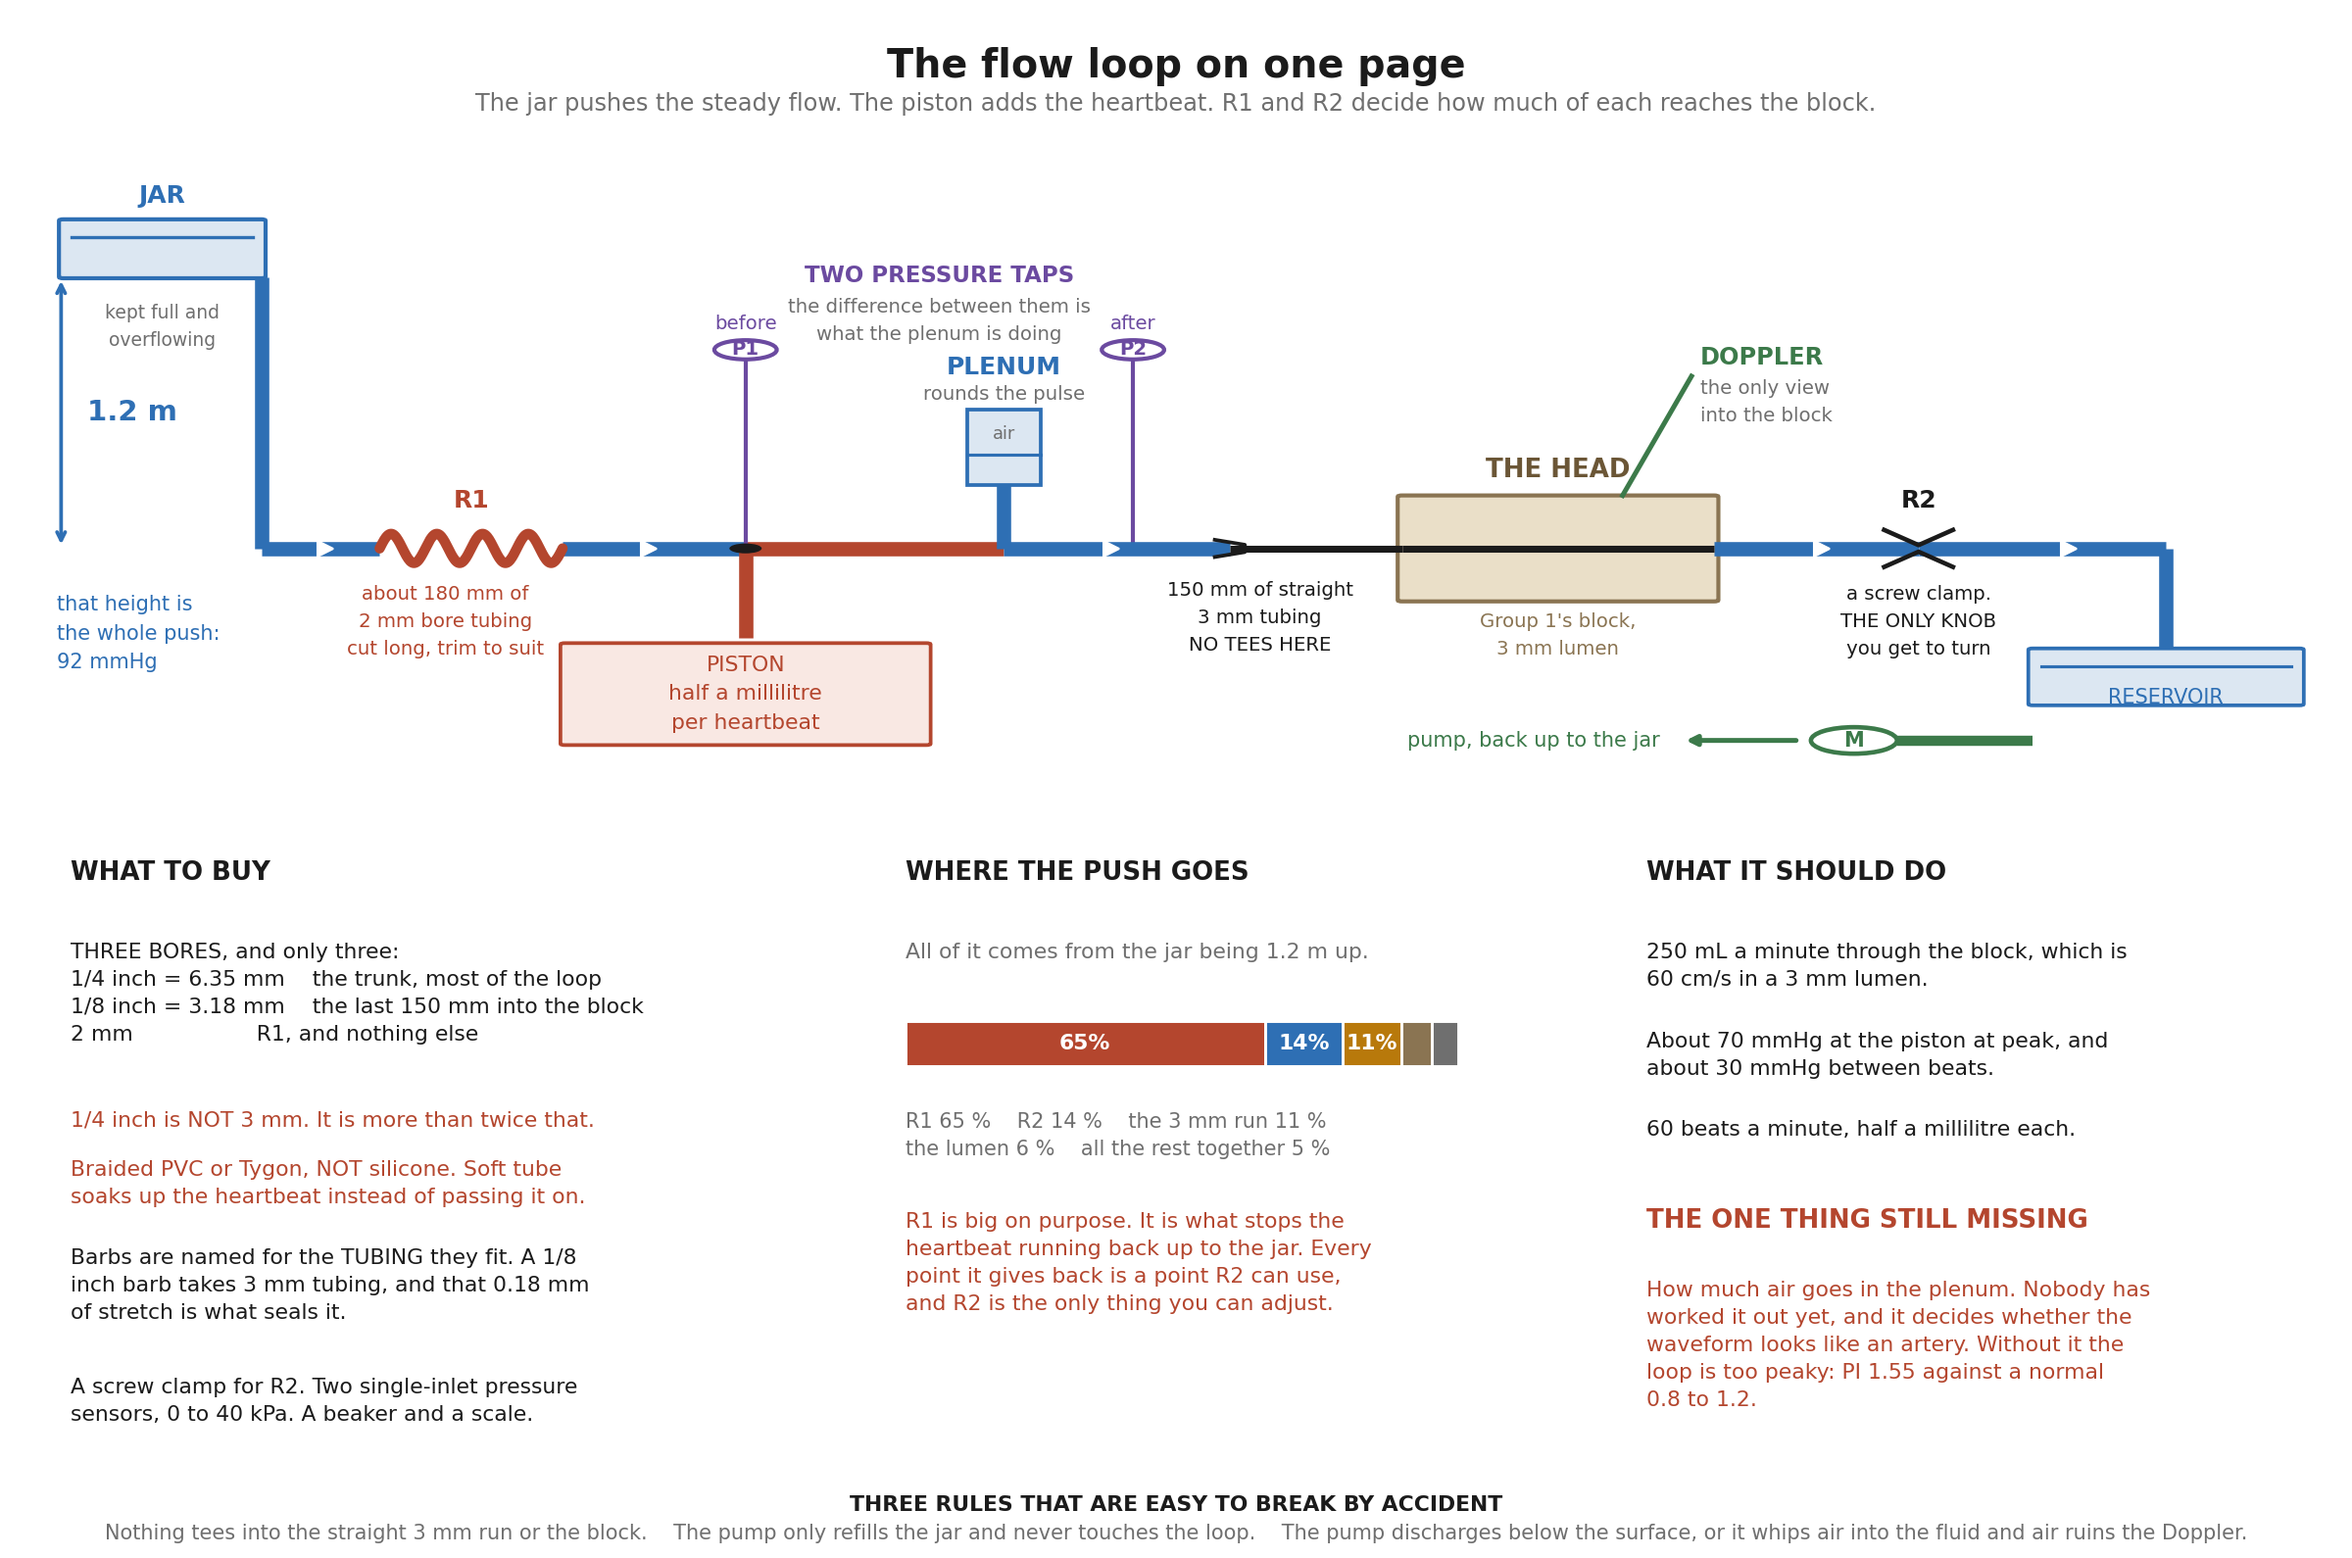
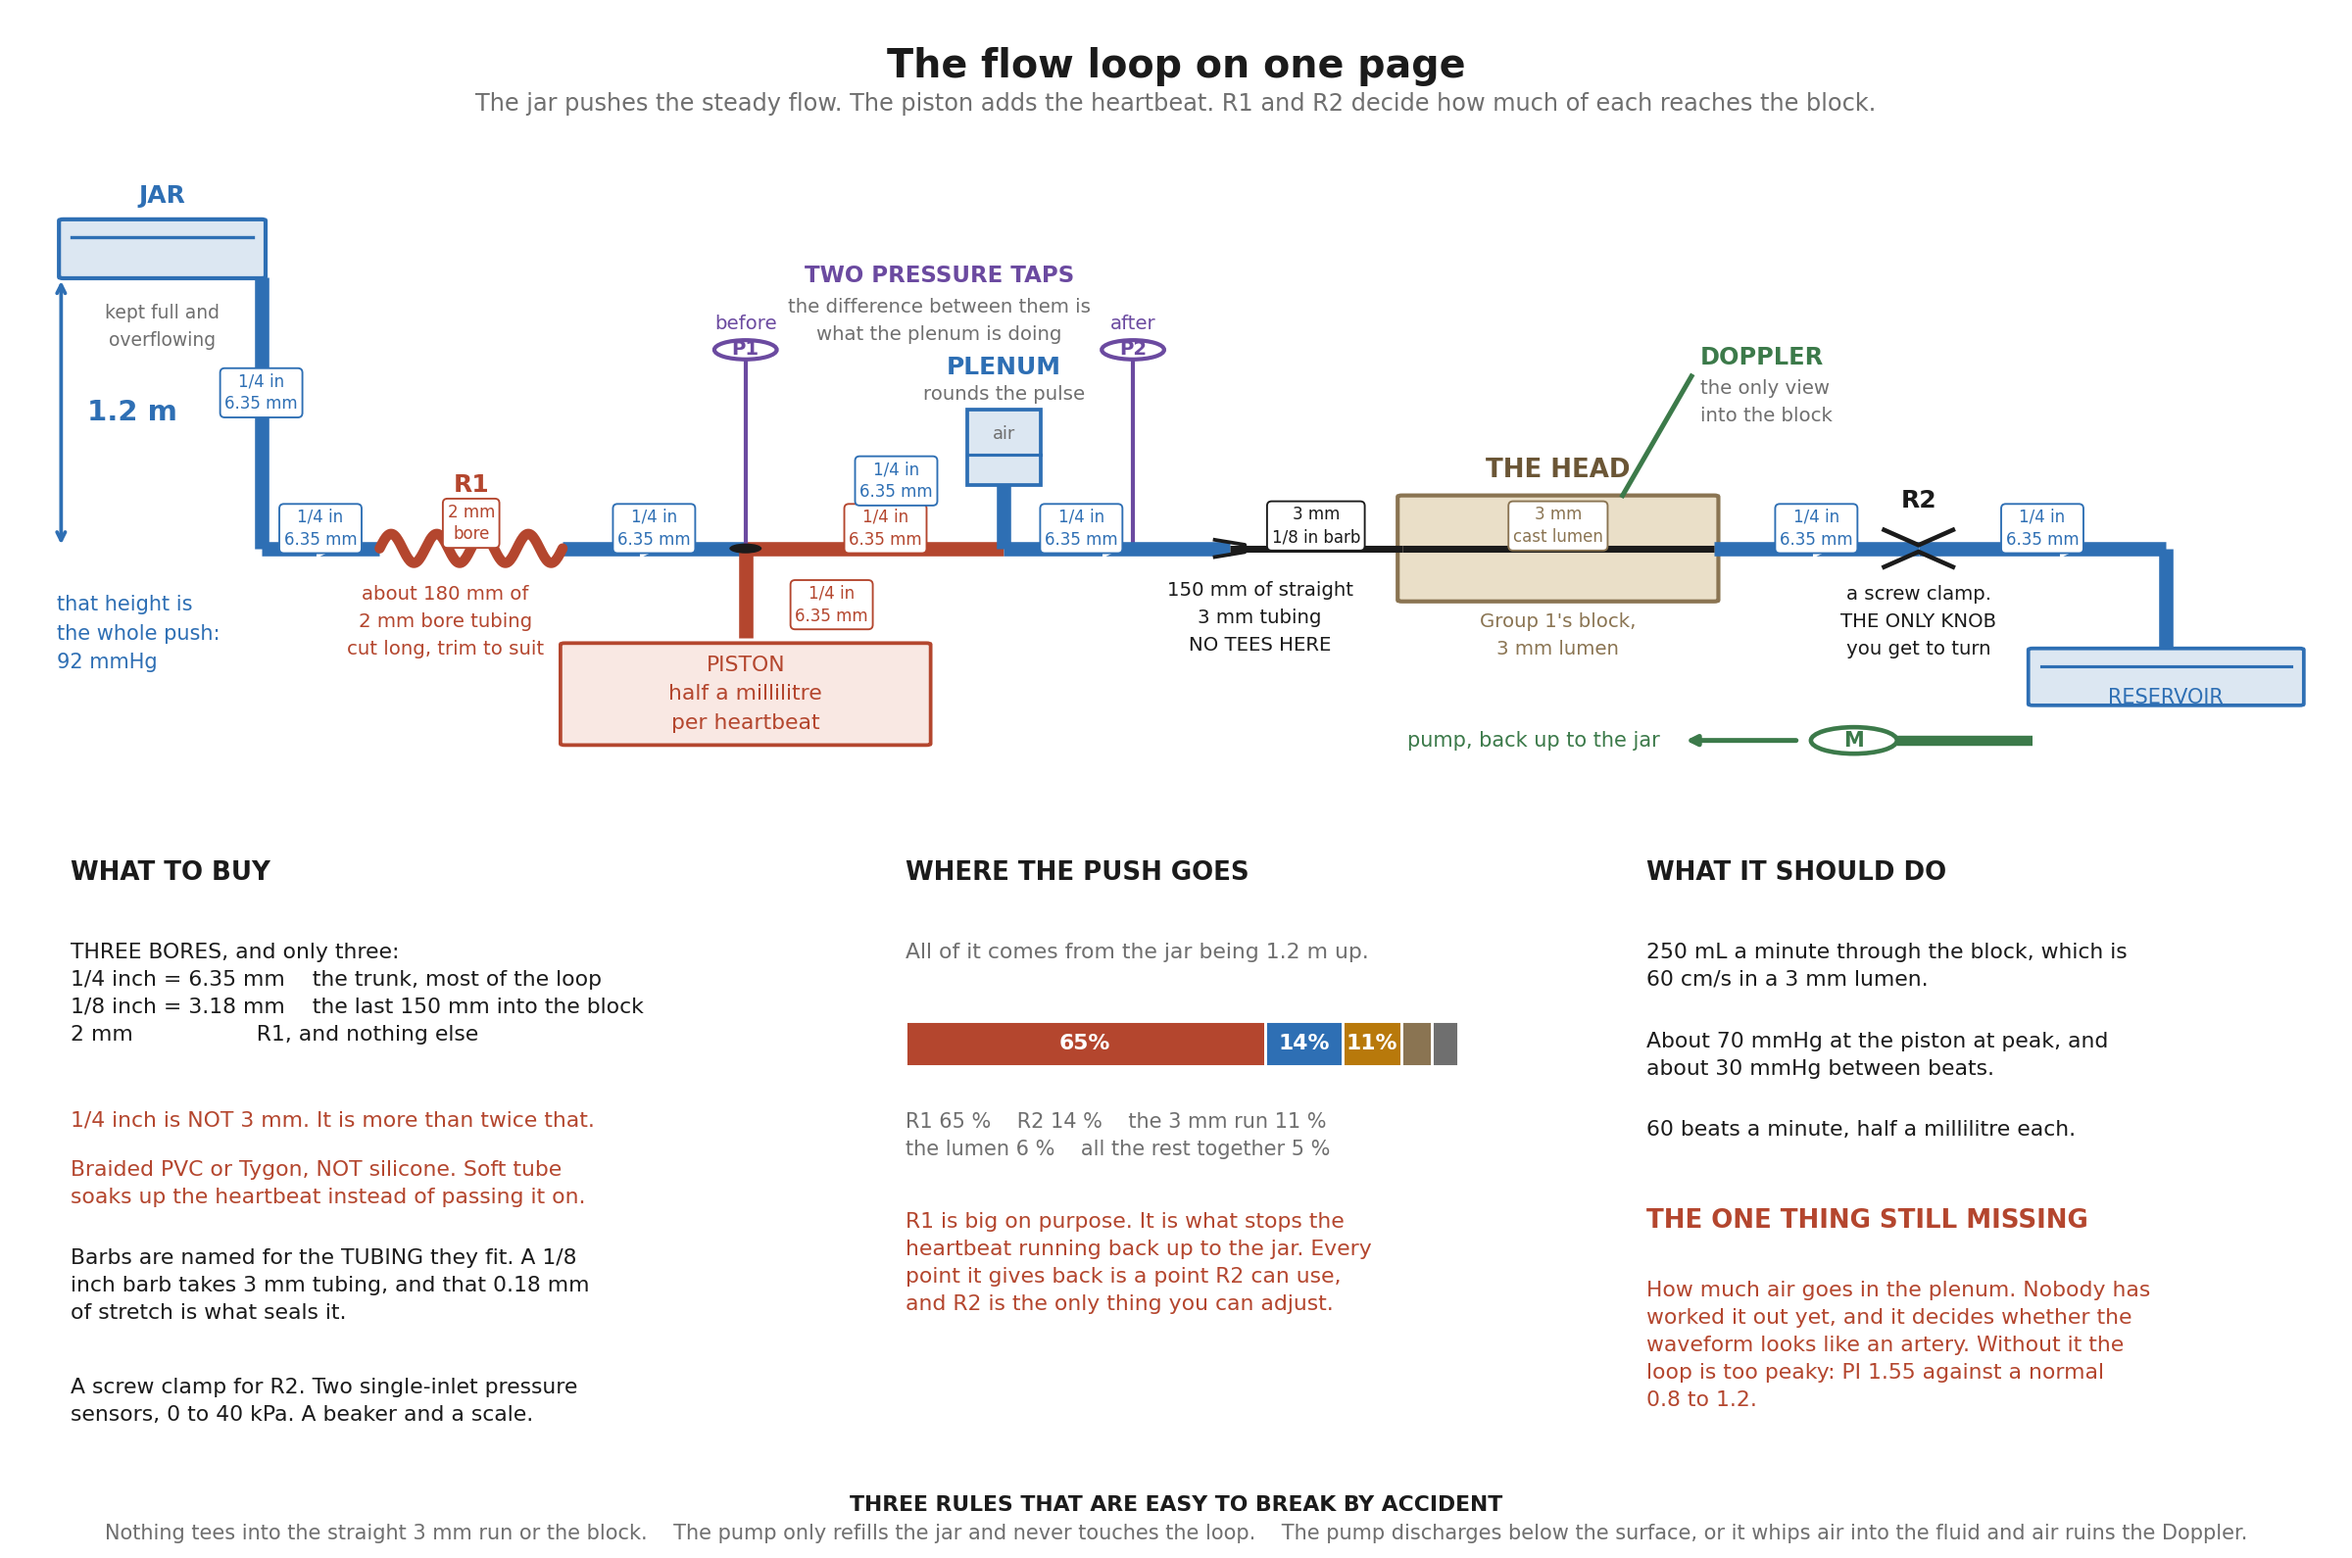
Put the bore on every run of the one pager, not just in the buy list
The buy list said "1/4 inch for everything but two places", which leaves the
reader to find the two places, and finding them is the part that goes wrong.
Every run now carries its own size label sitting on the pipe: eleven of them,
covering the drop from the jar, R1, both sides of the piston junction, the
plenum riser, the run to the reducer, the settling run, the lumen, and the
two runs back to the reservoir.

Each label gives both spellings, 1/4 in over 6.35 mm, so there is no point on
the drawing where someone has to convert in their head. R1's says 2 mm bore.

The lumen's label says "3 mm cast lumen" rather than repeating the barb size,
because it is a void cast in Group 1's block and there is no tubing or barb
there at all. Labelling it like the run beside it would have invited someone
to look for a fitting that does not exist.

diff --git a/flow/one_pager.py b/flow/one_pager.py
@@ -85,6 +85,20 @@ def main():
         ax.text(x, y, text, ha=ha, va=va, fontsize=size, color=col,
                 zorder=12, linespacing=1.6, fontweight=weight)
 
+    def bore(x, y, text, col=INK, rot=0):
+        """A size label sitting on the run it describes.
+
+        On the pipe rather than in the legend, because a buy list that says
+        "1/4 inch for everything but two places" leaves the reader to find
+        the two places, and finding them is the part that goes wrong.
+        """
+        ax.text(x, y, text, ha="center", va="center", fontsize=8.0,
+                color=col, zorder=14, linespacing=1.35, rotation=rot,
+                bbox=dict(boxstyle="round,pad=0.28", facecolor="white",
+                          edgecolor=col, linewidth=0.9))
+
+    QTR, SML, LUM = "1/4 in\n6.35 mm", "2 mm\nbore", "3 mm\n1/8 in barb"
+
     X_JAR, X_DROP = 0.55, 1.05
     X_R1A, X_R1B = 1.60, 2.45
     X_P1, X_PLEN = 3.30, 4.50
@@ -107,19 +121,24 @@ def main():
     lab(0.10, -0.70, "that height is\nthe whole push:\n%.0f mmHg" % mmhg(TANK),
         COOL, 10, ha="left", va="top")
     pipe(X_DROP, X_R1A)
+    bore(X_DROP, 2.35, QTR, COOL)
+    bore((X_DROP + X_R1A) / 2, 0.30, QTR, COOL)
 
     # ---------------------------------------------------------------- R1
     xs = np.linspace(X_R1A, X_R1B, 200)
     ax.plot(xs, 0.22 * np.sin((xs - X_R1A) / (X_R1B - X_R1A) * 8 * np.pi),
             color=HOT, lw=5.0, solid_capstyle="round", zorder=6)
-    lab((X_R1A + X_R1B) / 2, 0.55, "R1", HOT, 12, weight="bold")
+    lab((X_R1A + X_R1B) / 2, 0.78, "R1", HOT, 12, weight="bold")
+    bore((X_R1A + X_R1B) / 2, 0.38, SML, HOT)
     lab((X_R1A + X_R1B) / 2 - 0.12, -0.55,
         "about %.0f mm of\n2 mm bore tubing\ncut long, trim to suit"
         % (round(r1_L / 10.0) * 10), HOT, 9.5, va="top")
 
     # ------------------------------------------------------- piston at P1
     pipe(X_R1B, X_P1)
+    bore((X_R1B + X_P1) / 2, 0.30, QTR, COOL)
     vpipe(X_P1, -1.35, 0.0, col=HOT)
+    bore(X_P1 + 0.40, -0.85, QTR, HOT)
     ax.add_patch(Circle((X_P1, 0.0), 0.075, facecolor=INK, edgecolor="none",
                         zorder=7))
     ax.add_patch(FancyBboxPatch((X_P1 - 0.84, -2.95), 1.68, 1.50,
@@ -130,7 +149,9 @@ def main():
 
     # ------------------------------------------------------------ plenum
     pipe(X_P1, X_PLEN, col=HOT)
+    bore((X_P1 + X_PLEN) / 2 + 0.05, 0.30, QTR, HOT)
     vpipe(X_PLEN, 0.0, 1.30)
+    bore(X_PLEN - 0.50, 1.02, QTR, COOL)
     ax.add_patch(Rectangle((X_PLEN - 0.17, 0.95), 0.34, 1.15,
                            facecolor="#dce7f2", edgecolor=COOL, lw=1.8,
                            zorder=5))
@@ -157,11 +178,13 @@ def main():
         MUTE, 9.5, va="top")
 
     pipe(X_PLEN, X_RED)
+    bore(X_PLEN + 0.36, 0.30, QTR, COOL)
     ax.plot([X_RED - 0.07, X_RED + 0.07, X_RED + 0.07, X_RED - 0.07],
             [0.13, 0.055, -0.055, -0.13], color=INK, lw=1.8, zorder=6)
 
     # ------------------------------------------------------ settling run
     pipe(X_RED, X_IN, w=3.4, col=INK)
+    bore((X_RED + X_IN) / 2, 0.34, LUM, INK)
     lab((X_RED + X_IN) / 2 - 0.26, -0.50,
         "%.0f mm of straight\n3 mm tubing\nNO TEES HERE" % set_L, INK, 9.5,
         va="top")
@@ -171,6 +194,7 @@ def main():
                                 boxstyle="round,pad=0.02", facecolor="#eadfc8",
                                 edgecolor=SAND, lw=2.0, zorder=2))
     pipe(X_IN, X_OUT, w=3.4, col=INK, z=6)
+    bore((X_IN + X_OUT) / 2, 0.34, "3 mm\ncast lumen", SAND)
     lab((X_IN + X_OUT) / 2, 0.98, "THE HEAD", "#6b5636", 12.5, weight="bold")
     lab((X_IN + X_OUT) / 2, -0.96, "Group 1's block,\n3 mm lumen", SAND, 9.5,
         va="top")
@@ -183,6 +207,7 @@ def main():
 
     # ---------------------------------------------------------------- R2
     pipe(X_OUT, X_R2)
+    bore((X_OUT + X_R2) / 2, 0.30, QTR, COOL)
     ax.plot([X_R2 - 0.16, X_R2, X_R2 + 0.16], [0.28, 0.05, 0.28],
             color=INK, lw=2.2, zorder=6)
     ax.plot([X_R2 - 0.16, X_R2, X_R2 + 0.16], [-0.28, -0.05, -0.28],
@@ -193,6 +218,7 @@ def main():
 
     # ------------------------------------------------- reservoir and pump
     pipe(X_R2, X_RES)
+    bore((X_R2 + X_RES) / 2, 0.30, QTR, COOL)
     vpipe(X_RES, -1.55, 0.0)
     ax.add_patch(FancyBboxPatch((X_RES - 0.62, -2.35), 1.24, 0.82,
                                 boxstyle="round,pad=0.02", facecolor="#dce7f2",
